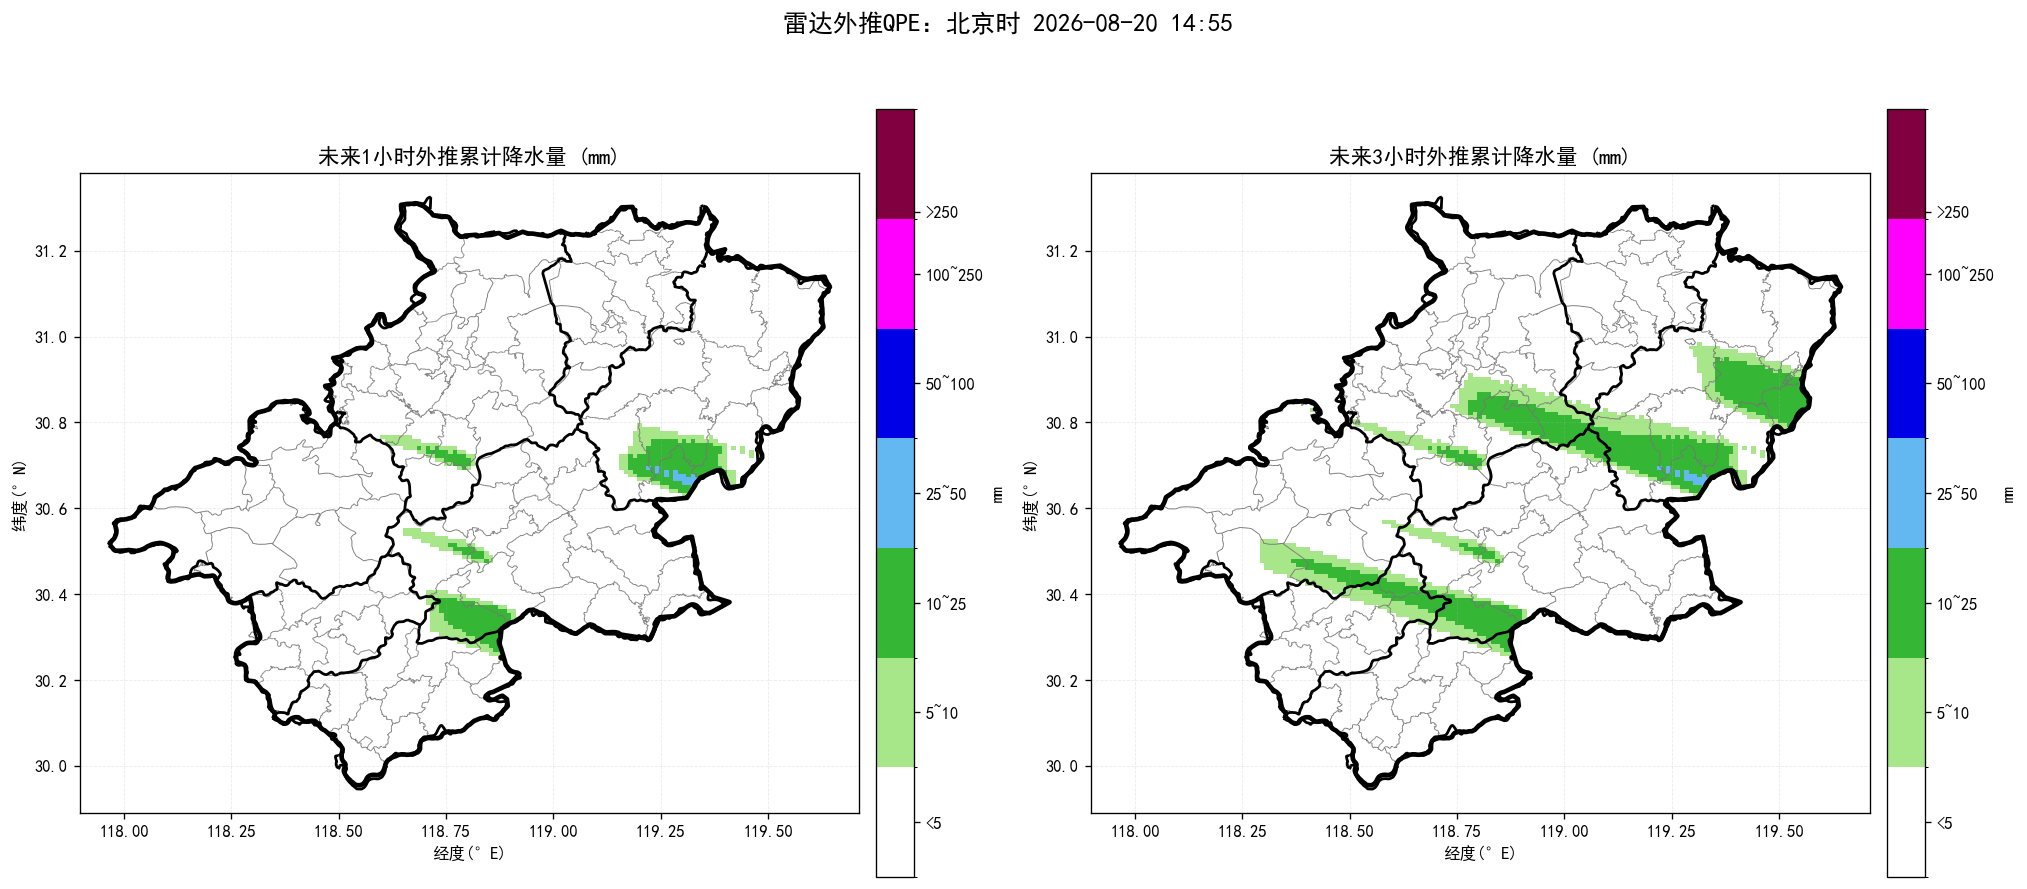
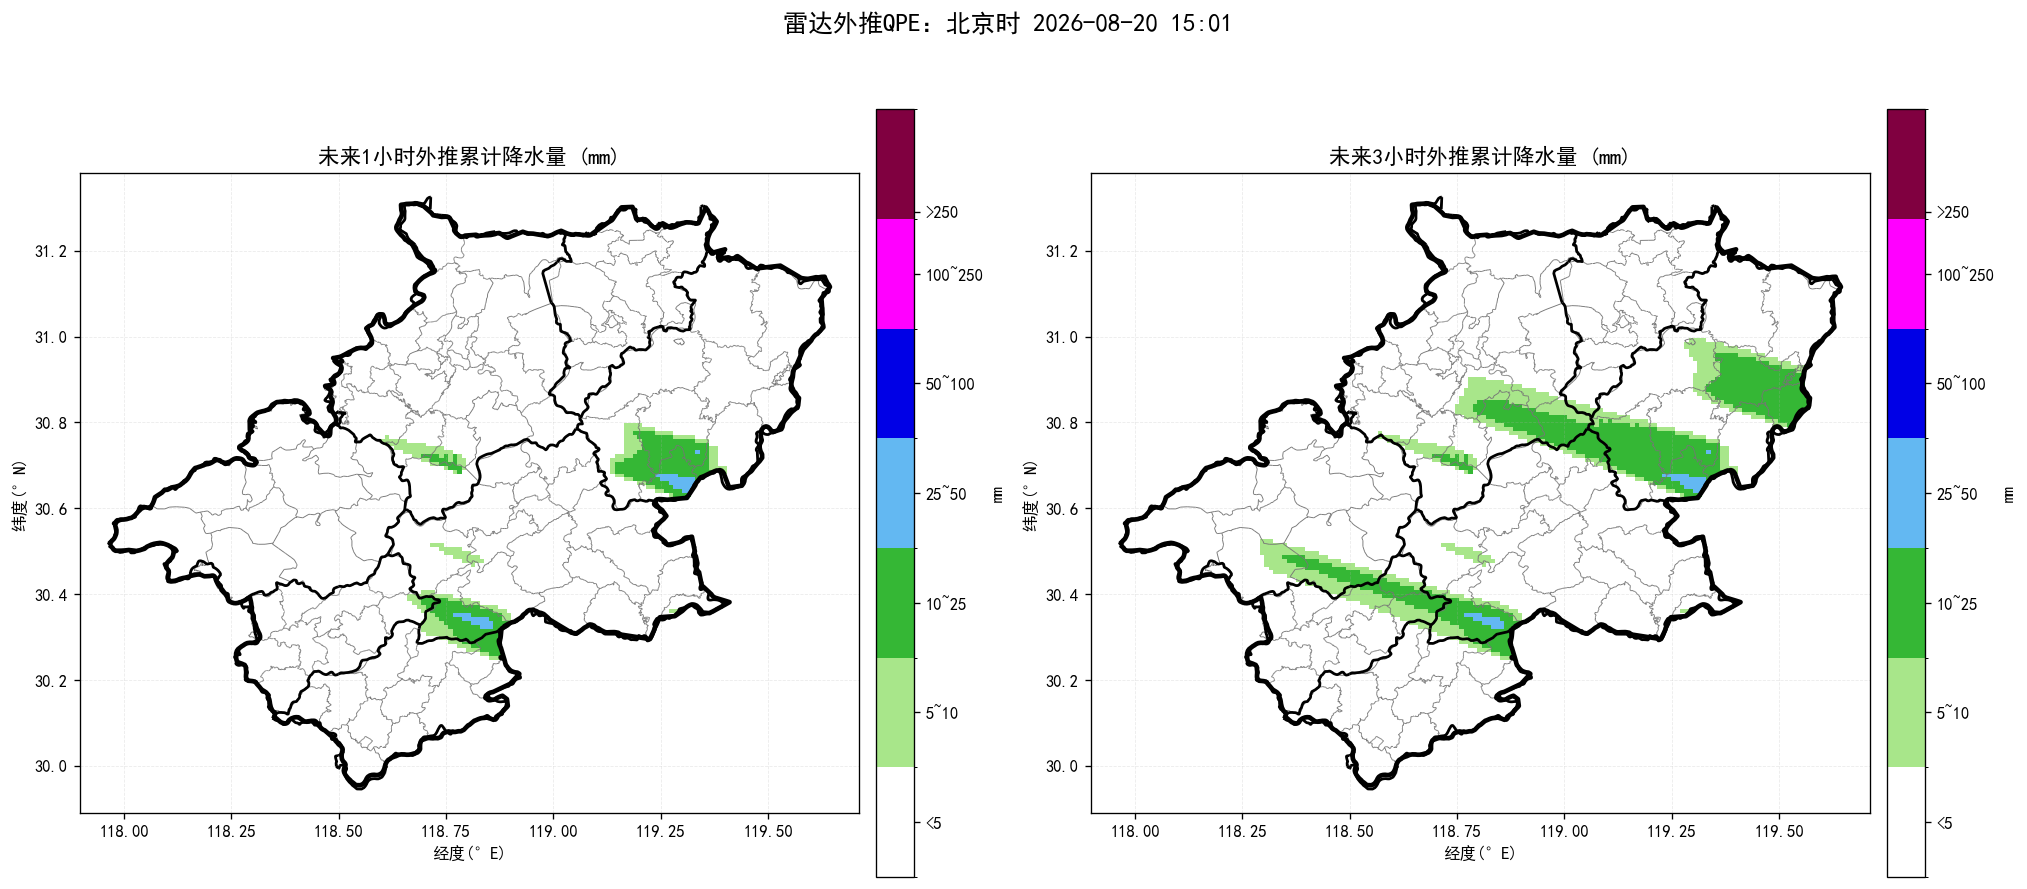
update nowcast products

diff --git a/index.html b/index.html
@@ -14,14 +14,14 @@ img.product{display:block;width:100%;height:auto;margin:10px auto 26px;border:1p
 .footer{font-size:13px;color:#777;text-align:center;margin-top:30px}
 @media(max-width:700px){.sheet{margin:0;padding:18px 15px}.alert-title{font-size:22px}.county-line{font-size:17px}.prob{font-size:18px}}
 </style></head><body><main class="sheet">
-<div class="time">起报时间：北京时 2026-08-20 14:55</div>
-<div class="alert-title">未来一小时降水量超过 20 毫米的乡镇：</div><div class="county-line">广德市：四合乡、柏垫镇、杨滩镇、卢村乡</div>
+<div class="time">起报时间：北京时 2026-08-20 15:01</div>
+<div class="alert-title">未来一小时降水量超过 20 毫米的乡镇：</div><div class="county-line">广德市：四合乡、柏垫镇、杨滩镇、卢村乡；</div><div class="county-line">宁国市：胡乐镇</div>
 <div class="alert-title">未来三小时降水量超过 50 毫米的乡镇：</div><div class="county-line">无</div>
-<div class="alert-title">未来三小时雷暴大风（组合反射率 > 55 dBZ）的乡镇：</div><div class="county-line">广德市：四合乡</div>
-<div class="prob">最大降水量概率预估：宣城市范围内未来三小时累计降水达到50毫米概率约14%，达到80毫米概率约0%，达到100毫米概率约0%。</div>
-<div class="section-title">未来降水预报图：</div><img class="product auto-refresh-product" data-src="短临降水预报.png" src="短临降水预报.png?v=20260820150131" alt="未来降水预报图">
-<div class="section-title">未来三小时组合反射率图：</div><img class="product auto-refresh-product" data-src="未来3小时组合反射率.png" src="未来3小时组合反射率.png?v=20260820150131" alt="未来三小时组合反射率图">
-<div class="section-title">未来三小时雷暴大风图：</div><img class="product auto-refresh-product" data-src="未来3小时雷暴大风.png" src="未来3小时雷暴大风.png?v=20260820150131" alt="未来三小时雷暴大风图">
+<div class="alert-title">未来三小时雷暴大风（组合反射率 > 55 dBZ）的乡镇：</div><div class="county-line">广德市：四合乡；</div><div class="county-line">宣州区：溪口镇</div>
+<div class="prob">最大降水量概率预估：宣城市范围内未来三小时累计降水达到50毫米概率约23%，达到80毫米概率约0%，达到100毫米概率约0%。</div>
+<div class="section-title">未来降水预报图：</div><img class="product auto-refresh-product" data-src="短临降水预报.png" src="短临降水预报.png?v=20260820150710" alt="未来降水预报图">
+<div class="section-title">未来三小时组合反射率图：</div><img class="product auto-refresh-product" data-src="未来3小时组合反射率.png" src="未来3小时组合反射率.png?v=20260820150710" alt="未来三小时组合反射率图">
+<div class="section-title">未来三小时雷暴大风图：</div><img class="product auto-refresh-product" data-src="未来3小时雷暴大风.png" src="未来3小时雷暴大风.png?v=20260820150710" alt="未来三小时雷暴大风图">
 <div class="footer">三张产品图每 60 秒自动刷新一次；每次请求自动附加新的URL参数以绕过缓存。</div>
 <script>
 (function() {
